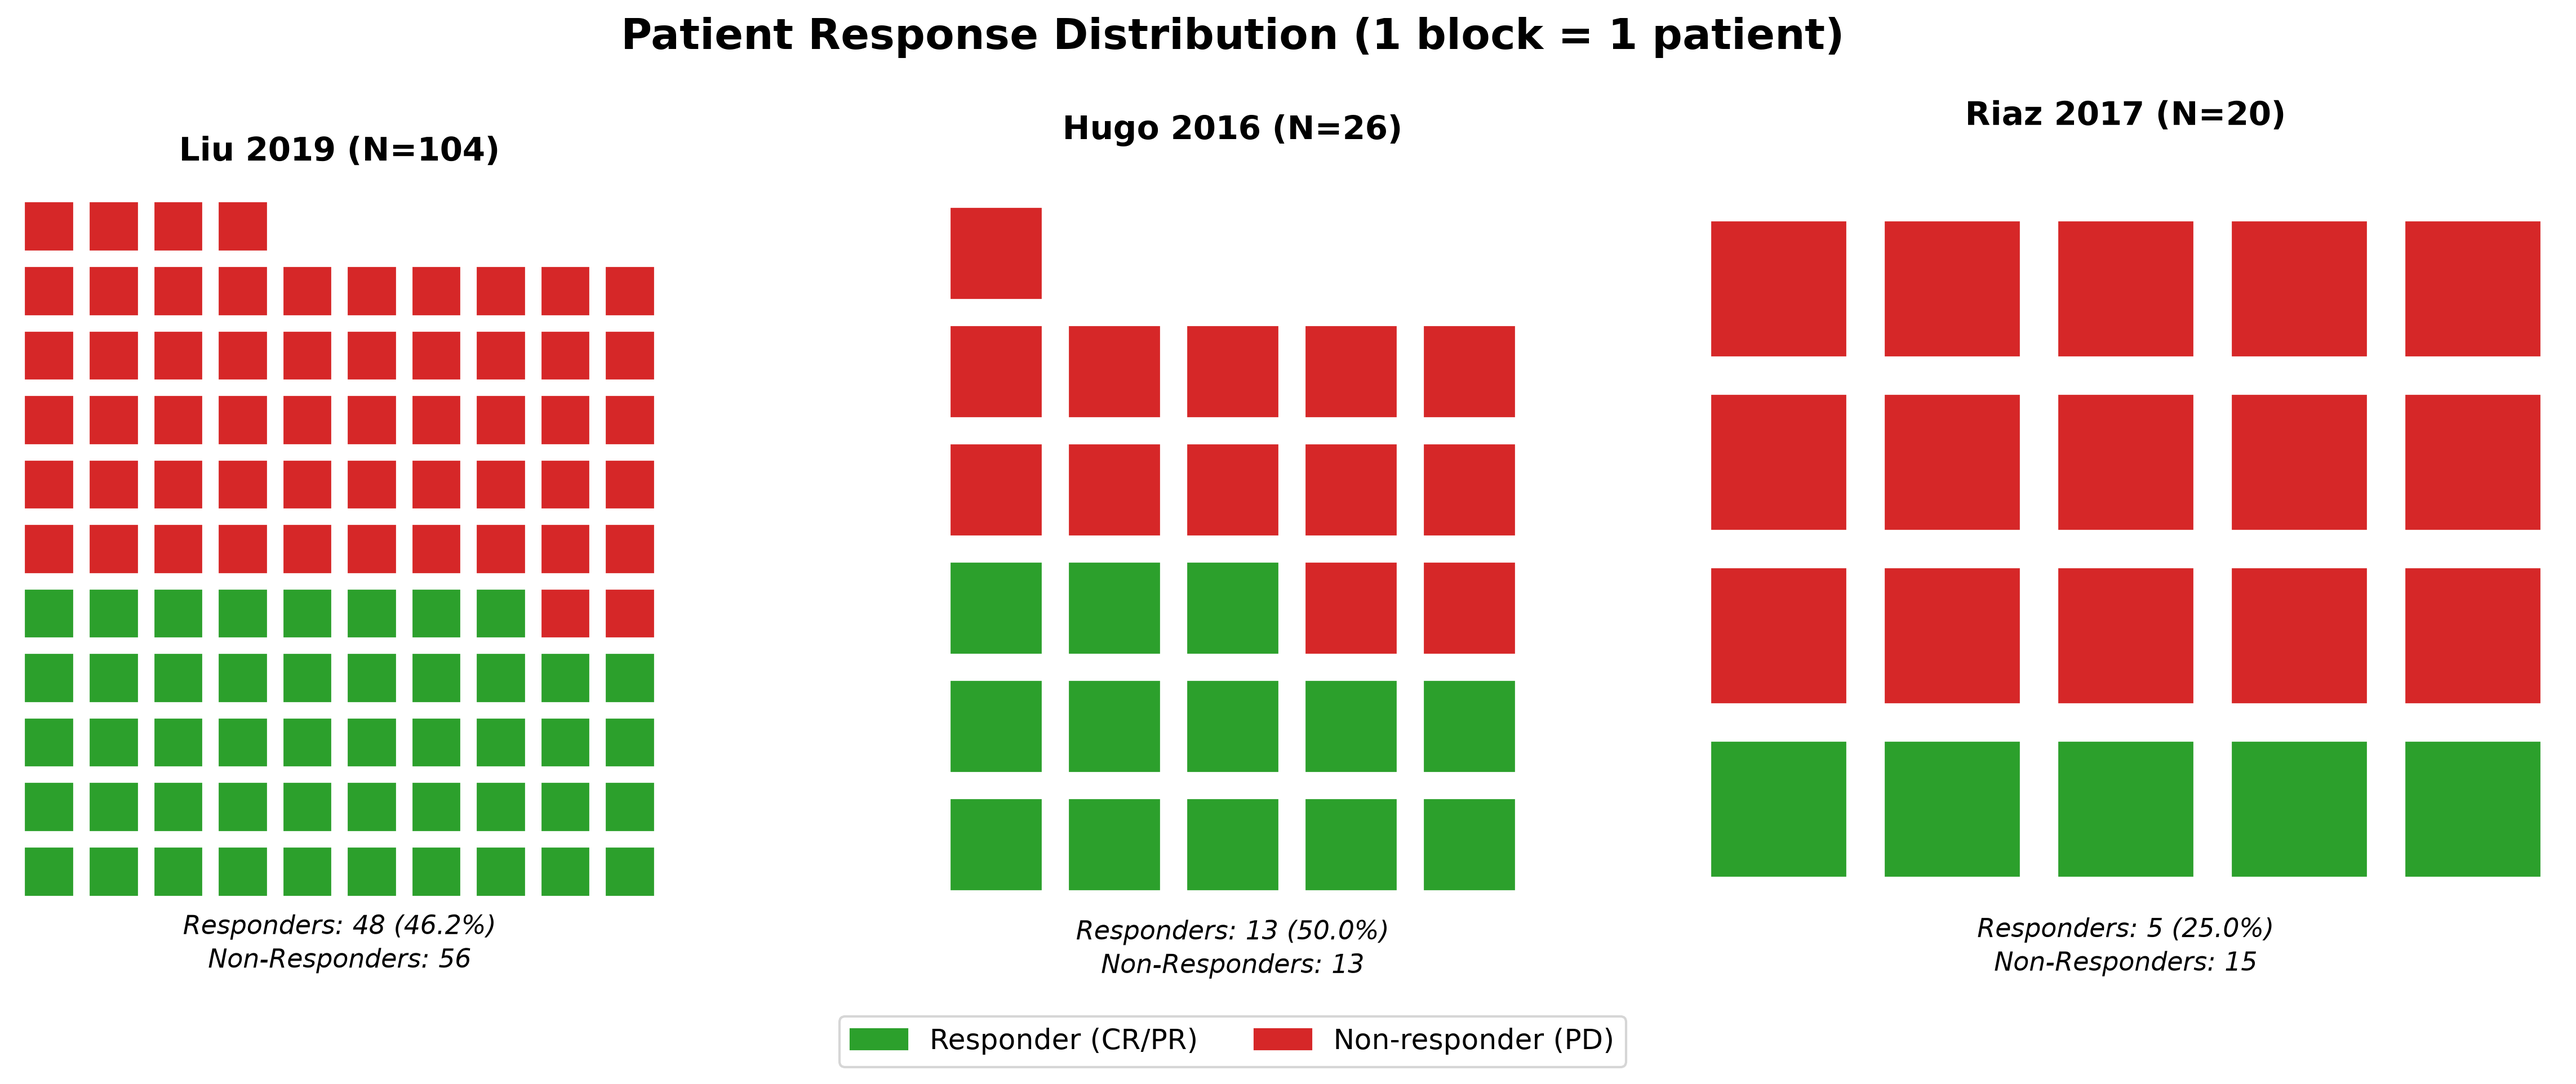
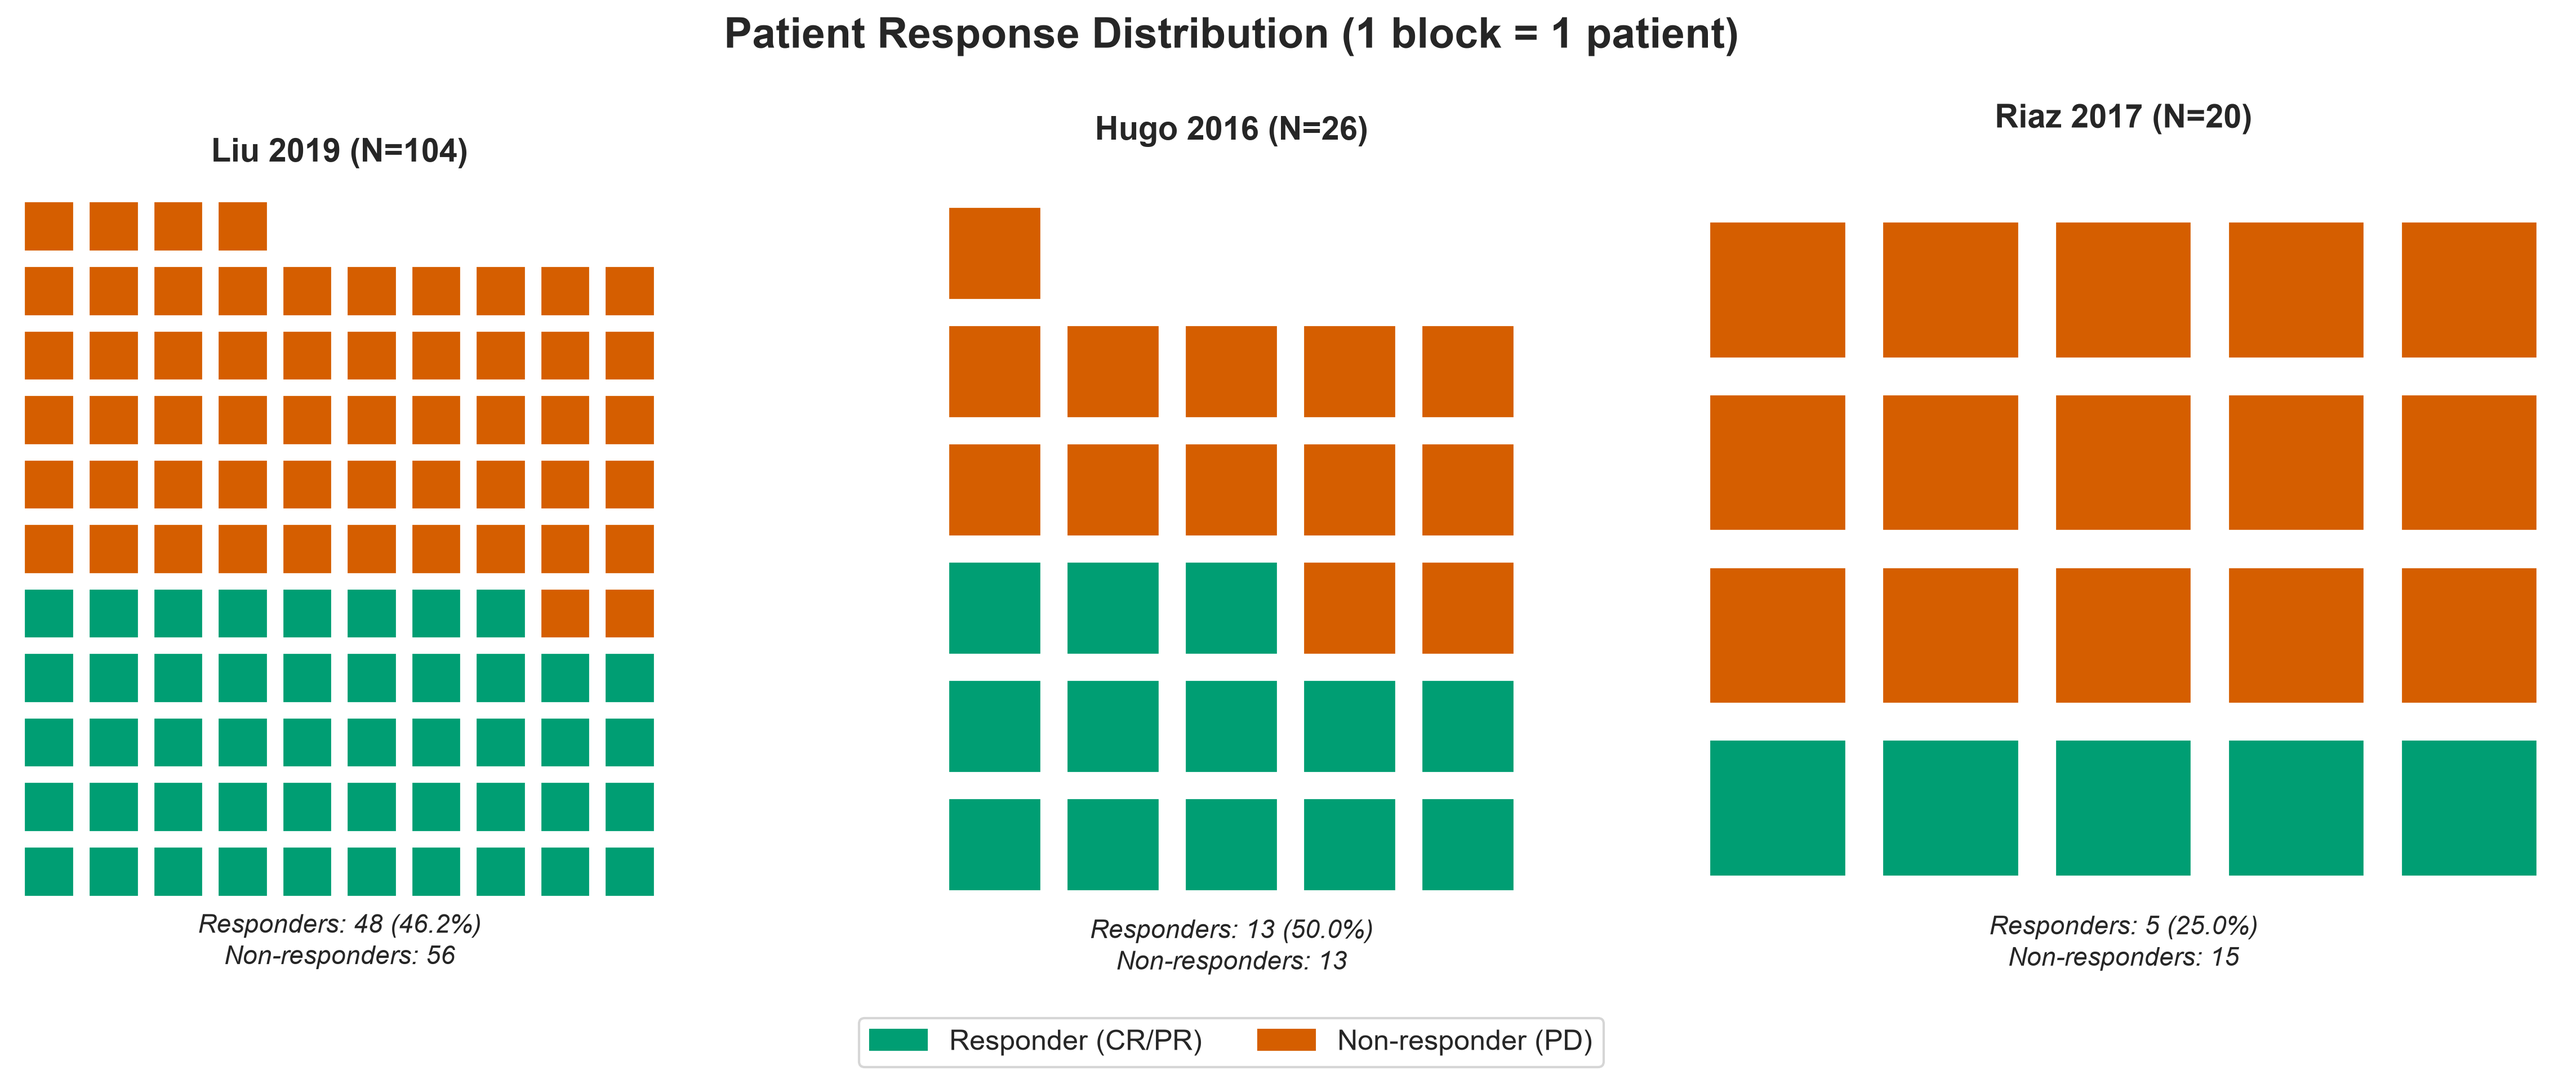
style(clinical): update RECIST waffle chart to Okabe-Ito gold standard palette

diff --git a/q1-response-predictor/scripts/exploratory_plots/run_waffle_chart.py b/q1-response-predictor/scripts/exploratory_plots/run_waffle_chart.py
@@ -15,11 +15,15 @@ if str(BASE_DIR) not in sys.path:
 PLOT_DIR = BASE_DIR / "plots" / "clinical"
 PLOT_DIR.mkdir(exist_ok=True, parents=True)
 
+from src.styles import RESPONSE_PALETTE, set_presentation_style
+
+set_presentation_style()
+
 def draw_waffle_cohort(ax, n_resp, n_nr, title, n_cols=10):
     total = n_resp + n_nr
-    # Colors: green for Responders, red for Non-responders
-    c_resp = "#2ca02c"
-    c_nr = "#d62728"
+    # Colors: Okabe-Ito Bluish Green for Responders, Vermillion for Non-responders
+    c_resp = RESPONSE_PALETTE["CR/PR"]
+    c_nr = RESPONSE_PALETTE["PD"]
     
     # List of colors for each block (Responders first, then Non-responders)
     block_colors = [c_resp] * n_resp + [c_nr] * n_nr
@@ -48,7 +52,7 @@ def draw_waffle_cohort(ax, n_resp, n_nr, title, n_cols=10):
     
     # Add subtitle with counts
     pct_resp = (n_resp / total) * 100
-    subtext = f"Responders: {n_resp} ({pct_resp:.1f}%)\nNon-Responders: {n_nr}"
+    subtext = f"Responders: {n_resp} ({pct_resp:.1f}%)\nNon-responders: {n_nr}"
     ax.text(n_cols / 2 - 0.5, n_rows - 0.1, f"{title} (N={total})", 
             ha='center', va='bottom', fontsize=14, fontweight='bold')
     ax.text(n_cols / 2 - 0.5, -0.6, subtext, 
@@ -81,8 +85,8 @@ def main():
     # Custom Legend
     import matplotlib.patches as mpatches
     legend_patches = [
-        mpatches.Patch(color="#2ca02c", label='Responder (CR/PR)'),
-        mpatches.Patch(color="#d62728", label='Non-responder (PD)')
+        mpatches.Patch(color=RESPONSE_PALETTE["CR/PR"], label='Responder (CR/PR)'),
+        mpatches.Patch(color=RESPONSE_PALETTE["PD"], label='Non-responder (PD)')
     ]
     fig.legend(handles=legend_patches, loc='lower center', ncol=2, fontsize=12, frameon=True, bbox_to_anchor=(0.5, 0.05))
 
